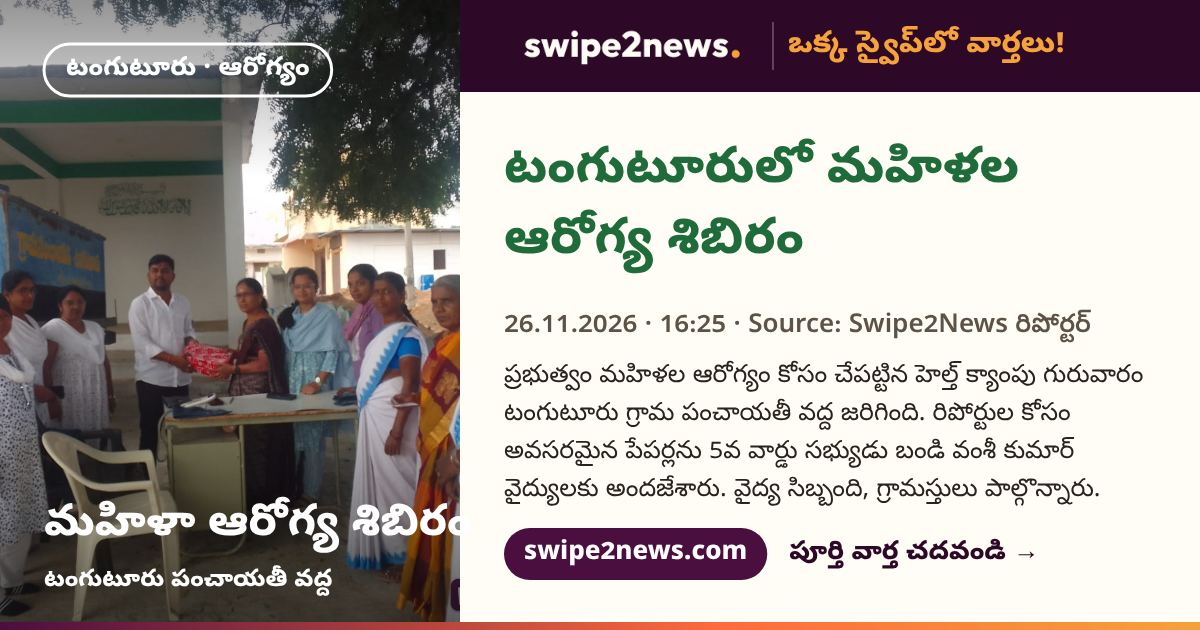
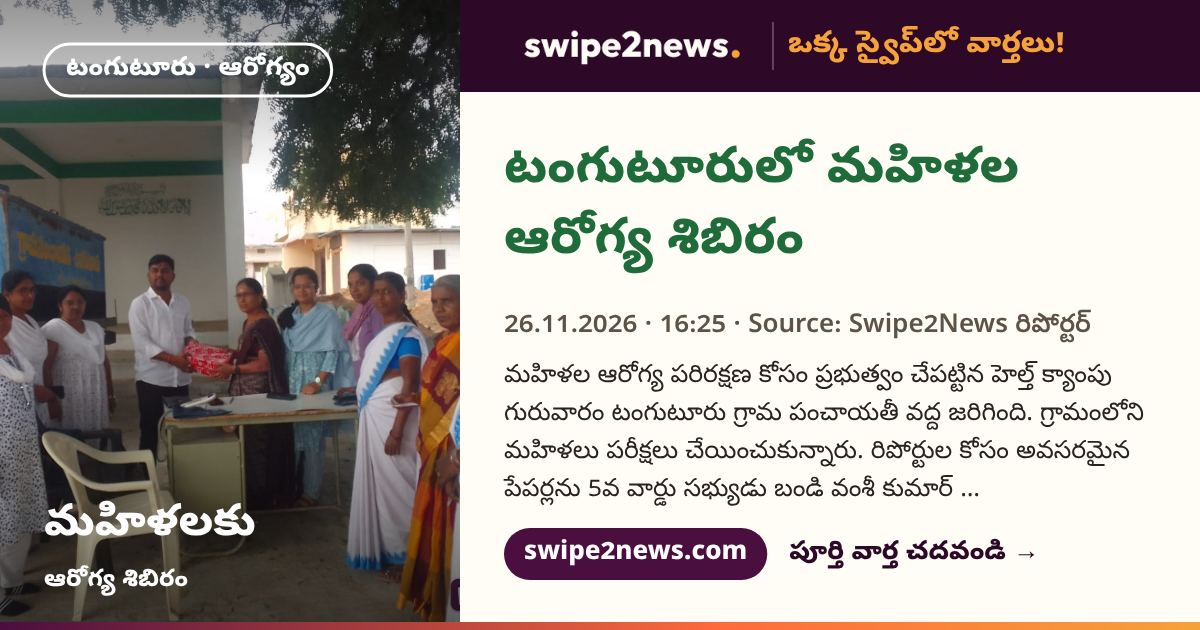
Tanguturu story: summary to card length, shorter picture line
Claude-Session: https://claude.ai/code/session_018iQhkHU53oJfvWAwm1ZPZm

Changed region(s): [[0.4008, 0.573, 0.9558, 0.8143], [0.1233, 0.7841, 0.4008, 0.8746], [0.0308, 0.9048, 0.2775, 0.9651]]

diff --git a/te/index.html b/te/index.html
@@ -39,7 +39,7 @@ footer{background:#fff;border-top:1px solid #E6E8EC;padding:22px 0 30px;font-siz
 <nav class="cat" aria-label="Sections"><a href="#telangana">తెలంగాణ</a><a href="#ap">ఆంధ్రప్రదేశ్</a><a href="#india">దేశం</a><a href="#world">ప్రపంచం</a><a href="#business">బిజినెస్ &amp; టెక్</a><a href="#fact">ఫ్యాక్ట్ చెక్</a><a href="#local">జిల్లా వార్తలు</a><a href="#jobs">ఉద్యోగాలు · చివరి తేదీలు</a></nav></div></header>
 <main class="wrap">
 <h1>ముఖ్య వార్తలు</h1>
-<div class="lead"><div><article class="card big"><div class="m"><span class="l fact">వాస్తవం</span><span>టంగుటూరు · ఆరోగ్యం</span><time datetime="2026-11-26T16:25+05:30">26.11.2026 16:25</time></div><h3><a href="/s/aa676i">టంగుటూరులో మహిళల ఆరోగ్య శిబిరం</a></h3><p>ప్రభుత్వం మహిళల ఆరోగ్యం కోసం చేపట్టిన హెల్త్ క్యాంపు గురువారం టంగుటూరు గ్రామ పంచాయతీ వద్ద జరిగింది. రిపోర్టుల కోసం అవసరమైన పేపర్లను 5వ వార్డు సభ్యుడు బండి వంశీ కుమార్ వైద్యులకు అందజేశారు. వైద్య సిబ్బంది, గ్రామస్తులు పాల్గొన్నారు.</p><div class="w"><b>ఇది ఎందుకు ముఖ్యం:</b> గ్రామ మహిళలకు ప్రభుత్వ ఆరోగ్య పరీక్షలు ఊర్లోనే అందుతాయి.</div><div class="m">మూలం: <b>Swipe2News రిపోర్టర్</b></div></article></div><div class="card"><h3>తాజా అప్డేట్లు</h3><div class="list">
+<div class="lead"><div><article class="card big"><div class="m"><span class="l fact">వాస్తవం</span><span>టంగుటూరు · ఆరోగ్యం</span><time datetime="2026-11-26T16:25+05:30">26.11.2026 16:25</time></div><h3><a href="/s/aa676i">టంగుటూరులో మహిళల ఆరోగ్య శిబిరం</a></h3><p>మహిళల ఆరోగ్య పరిరక్షణ కోసం ప్రభుత్వం చేపట్టిన హెల్త్ క్యాంపు గురువారం టంగుటూరు గ్రామ పంచాయతీ వద్ద జరిగింది. గ్రామంలోని మహిళలు పరీక్షలు చేయించుకున్నారు. రిపోర్టుల కోసం అవసరమైన పేపర్లను 5వ వార్డు సభ్యుడు బండి వంశీ కుమార్ వైద్యులకు అందజేశారు. మహిళల ఆరోగ్యంపై అవగాహన పెంచడమే లక్ష్యమని ఆయన చెప్పారు. వైద్య సిబ్బంది, గ్రామస్తులు పాల్గొన్నారు.</p><div class="w"><b>ఇది ఎందుకు ముఖ్యం:</b> గ్రామ మహిళలకు ప్రభుత్వ ఆరోగ్య పరీక్షలు ఊర్లోనే అందుతాయి.</div><div class="m">మూలం: <b>Swipe2News రిపోర్టర్</b></div></article></div><div class="card"><h3>తాజా అప్డేట్లు</h3><div class="list">
 <a href="/s/xqmq68"><span>16:05</span>అంబర్ నగర్లో ఇద్దరు పిల్లలు దొరికారు</a><a href="/s/w5hsdg"><span>16:05</span>ఓట్లు తీసేస్తున్నారని సీఎం రేవంత్ ఆరోపణ</a><a href="/s/92zjrx"><span>16:05</span>తెలంగాణ గ్లోబల్ సమ్మిట్పై భట్టి సమీక్ష</a><a href="/s/1pomyg9"><span>16:05</span>హైదరాబాద్లో అమ్ముడుపోని ఇళ్లు పెరిగాయి</a><a href="/s/ybuqpi"><span>16:05</span>మంథని శిలాఫలకంపై ఎంపీ వంశీకృష్ణ లేఖ</a><a href="/s/1u5bcvk"><span>15:35</span>నిరసనల నియమాలపై సుప్రీంకోర్టు నోటీసు</a><a href="/s/14d98t"><span>15:35</span>అజ్మేర్లో తెలంగాణ అతిథి గృహం ఇంకా లేదు</a><a href="/s/yjzzxc"><span>15:35</span>సైబర్ వేధింపుల కేసుల్లో ఇద్దరు అరెస్ట్</a>
 </div></div></div>
 <section id="telangana"><h2>తెలంగాణ</h2><div class="grid"><article class="card"><div class="m"><span class="l fact">వాస్తవం</span><span>తెలంగాణ · పంచాయతీలు</span><time datetime="2026-11-26T15:03+05:30">26.11.2026 15:35</time></div><h3><a href="/s/1bl5w9a">పంచాయతీల సొంత ఆదాయానికి కొత్త ఖాతాలు</a></h3><p>గ్రామ పంచాయతీలు సొంత ఆదాయం కోసం జీరో బ్యాలెన్స్ బ్యాంకు ఖాతాలు తెరిచేలా చూడాలని పంచాయతీరాజ్ శాఖ జిల్లా పంచాయతీ అధికారులను ఆదేశించింది. ఇప్పటివరకు ఈ డబ్బు ప్రభుత్వ ఖజానా ద్వారా వెళ్లేది. అక్టోబర్ 9 నుంచి చట్ట సవరణ అమల్లోకి వచ్చింది. ఆర్బీఐ నివేదిక ప్రకారం పంచాయతీల నిధులు బాగా తగ్గాయని తెలంగాణ టుడే కథనం తెలిపింది.</p><div class="w"><b>ఇది ఎందుకు ముఖ్యం:</b> గ్రామాల్లో రోడ్లు, తాగునీరు, పారిశుద్ధ్యం పనులు పంచాయతీ నిధులపైనే ఆధారపడతాయి.</div><div class="m">మూలం: <b>Telangana Today</b></div></article><article class="card"><div class="m"><span class="l misleading">తప్పుదోవ</span><span>తెలంగాణ · నిజ నిర్ధారణ</span><time datetime="2026-11-26T15:00+05:30">26.11.2026 15:35</time></div><h3><a href="/s/15pbmyx">ఒక్కరే కారులో వెళ్తే జరిమానా అనేది తప్పు</a></h3><p>కారులో ఒక్కరే ప్రయాణిస్తే ‘రద్దీ నిబంధన’ కింద జరిమానా వేస్తారన్న సోషల్ మీడియా ప్రచారం తప్పు అని తెలంగాణ పోలీసులు చెప్పారు. అలాంటి ప్రణాళిక ఏదీ లేదని హైదరాబాద్ సీపీ మహేశ్ భగవత్, సైబరాబాద్ సీపీ రమేశ్ రెడ్డి న్యూస్మీటర్కు తెలిపారు. తప్పుడు ప్రచారం చేసే ఖాతాలపై చర్యలు తీసుకుంటామని ట్రాఫిక్ అధికారులు తెలిపారు.</p><div class="w"><b>ఇది ఎందుకు ముఖ్యం:</b> హైదరాబాద్, సైబరాబాద్లో కారులో ఒంటరిగా వెళ్లే వారికి ఎలాంటి కొత్త జరిమానా లేదు.</div><div class="m">మూలం: <b>NewsMeter</b></div></article><article class="card"><div class="m"><span class="l fact">వాస్తవం</span><span>తెలంగాణ · రాజ్యాంగ దినోత్సవం</span><time datetime="2026-11-26T14:41+05:30">26.11.2026 15:05</time></div><h3><a href="/s/16ik3ed">ఆర్టికల్ 3 వల్లే తెలంగాణ: కేటీఆర్</a></h3><p>రాజ్యాంగ దినోత్సవం సందర్భంగా బీఆర్ఎస్ వర్కింగ్ ప్రెసిడెంట్ కేటీఆర్ గురువారం ఒక ప్రకటనలో డాక్టర్ బీఆర్ అంబేడ్కర్కు, రాజ్యాంగ సభ సభ్యులకు నివాళి అర్పించారు. కొత్త రాష్ట్రాల ఏర్పాటుకు వీలు కల్పించే ఆర్టికల్ 3 వల్లే తెలంగాణ ఏర్పడిందని అన్నారు. న్యాయం, స్వేచ్ఛ, సమానత్వం, సోదరభావాలకు రాజ్యాంగం పునాది అని పేర్కొన్నారు.</p><div class="w"><b>ఇది ఎందుకు ముఖ్యం:</b> తెలంగాణ ఏర్పాటుకు రాజ్యాంగం ఇచ్చిన ఆధారాన్ని ఈ ప్రకటన గుర్తు చేస్తోంది.</div><div class="m">మూలం: <b>Telangana Today</b></div></article><article class="card"><div class="m"><span class="l fact">వాస్తవం</span><span>హైదరాబాద్ · విద్య</span><time datetime="2026-11-26T14:32+05:30">26.11.2026 15:05</time></div><h3><a href="/s/hp9bxj">నైపర్ హైదరాబాద్ స్నాతకోత్సవం శుక్రవారం</a></h3><p>హైదరాబాద్ బాలానగర్లోని నైపర్ (జాతీయ ఔషధ విద్య, పరిశోధన సంస్థ) 14వ స్నాతకోత్సవం శుక్రవారం జరగనుంది. 2024–26 బ్యాచ్కు చెందిన 225 మంది విద్యార్థులు డిగ్రీలు అందుకుంటారు. వీరిలో 15 మంది పీహెచ్డీ, 210 మంది మాస్టర్స్ విద్యార్థులు. చదువులో ప్రతిభ చూపిన 12 మందికి బంగారు పతకాలు ఇస్తారు.</p><div class="w"><b>ఇది ఎందుకు ముఖ్యం:</b> ఔషధ రంగంలో చదువుతున్న తెలుగు విద్యార్థులకు ఇది ముఖ్యమైన వేడుక.</div><div class="m">మూలం: <b>Telangana Today</b></div></article><article class="card"><div class="m"><span class="l fact">వాస్తవం</span><span>తెలంగాణ · ఎన్నికల జాబితా</span><time datetime="2026-11-26T14:24+05:30">26.11.2026 15:05</time></div><h3><a href="/s/ijeetx">ఓటర్ల జాబితాలో 32,100 కేసులు పెండింగ్</a></h3><p>తెలంగాణ ఓటర్ల జాబితా ప్రత్యేక సవరణలో 2.63 కోట్లకు పైగా పేర్లు తుది జాబితాకు ఖరారయ్యాయి. 58,772 మంది అనర్హులుగా తేలారు. ఇంకా 32,100 కేసులు పెండింగ్లో ఉన్నాయి, వాటిలో 22,598 హైదరాబాద్వే. నోటీసులకు సమాధానం ఇచ్చిన ఓటర్లు తమ కేసు ఎక్కడుందో ఆన్లైన్లో చూసుకునే వీలు లేదని సియాసత్ కథనం తెలిపింది.</p><div class="w"><b>ఇది ఎందుకు ముఖ్యం:</b> నోటీసు అందుకున్న ఓటర్లు తుది జాబితాలో తమ పేరు ఉందో లేదో చూసుకోవాలి.</div><div class="m">మూలం: <b>The Siasat Daily</b></div></article><article class="card"><div class="m"><span class="l fact">వాస్తవం</span><span>తెలంగాణ · వనపర్తి</span><time datetime="2026-11-26T14:20+05:30">26.11.2026 15:05</time></div><h3><a href="/s/ximmx3">వనపర్తిలో పిలవని అతిథులకు హెచ్చరిక</a></h3><p>వనపర్తి జిల్లాలో ఒక ఫంక్షన్ హాల్ నిర్వాహకులు పిలవకుండా వేడుకలకు వచ్చి భోజనం చేసేవారిపై హెచ్చరిక బోర్డు పెట్టారు. ఆహ్వానం లేకుండా వస్తే చట్టప్రకారం చర్యలు తీసుకుంటామని అందులో రాశారు. బీఎన్ఎస్ సెక్షన్ 329 కింద మూడు నెలల వరకు జైలు, ₹5,000 వరకు జరిమానా పడే అవకాశం ఉందని పేర్కొన్నారు.</p><div class="w"><b>ఇది ఎందుకు ముఖ్యం:</b> పెళ్లిళ్లు, విందులకు ఆహ్వానం లేకుండా వెళ్లేవారు ఇది గమనించాలి.</div><div class="m">మూలం: <b>NTV Telugu</b></div></article></div></section><section id="ap"><h2>ఆంధ్రప్రదేశ్</h2><div class="grid"><article class="card"><div class="m"><span class="l fact">వాస్తవం</span><span>ఏపీ · రోడ్డు ప్రమాదం</span><time datetime="2026-11-26T14:56+05:30">26.11.2026 15:35</time></div><h3><a href="/s/q86p0e">అనంతపురంలో లారీ ఢీకొని నలుగురు మృతి</a></h3><p>అనంతపురం జిల్లా యాడికి మండలం రాయలచెరువు దగ్గర గురువారం ఉదయం తుఫాన్ వాహనం ఎదురుగా వచ్చిన లారీని ఢీకొంది. నలుగురు మృతి చెందగా, ఎనిమిది మంది తీవ్రంగా గాయపడ్డారని పోలీసులు తెలిపారు. ప్రయాణికులు హైదరాబాద్లో పెళ్లికి వెళ్లి తాడిపత్రికి తిరిగి వస్తున్నారు. గాయపడిన వారిని ఆసుపత్రికి తరలించిన పోలీసులు కేసు నమోదు చేశారు.</p><div class="w"><b>ఇది ఎందుకు ముఖ్యం:</b> హైదరాబాద్–తాడిపత్రి మార్గంలో ప్రయాణించే వారికి రోడ్డు భద్రతపై ఇది హెచ్చరిక.</div><div class="m">మూలం: <b>Telangana Today</b></div></article><article class="card"><div class="m"><span class="l claim">వాదన</span><span>ఏపీ · పంచాయతీ ఎన్నికలు</span><time datetime="2026-11-26T14:39+05:30">26.11.2026 15:05</time></div><h3><a href="/s/nj1x8g">కేసరపల్లి పోలింగ్ కేంద్రం వద్ద ఉద్రిక్తత</a></h3><p>కృష్ణా జిల్లా గన్నవరం మండలం కేసరపల్లి పోలింగ్ కేంద్రం బయట గురువారం కాసేపు ఉద్రిక్తత నెలకొంది. పంచాయతీ ఎన్నికల తొలి విడత పోలింగ్ సమయంలో టీడీపీ మద్దతుదారులకు, పార్టీ రెబల్ వర్గానికి మధ్య వాగ్వాదం జరిగిందని ఏఎన్ఐ తెలిపింది. దీంతో ఓటర్లు, కార్యకర్తల్లో కొంత గందరగోళం ఏర్పడింది. మిగతా చోట్ల పోలింగ్ సజావుగా సాగిందని అధికారులు చెప్పారు.</p><div class="w"><b>ఇది ఎందుకు ముఖ్యం:</b> కృష్ణా జిల్లా గ్రామాల్లో ఓటర్లకు పోలింగ్ కేంద్రాల వద్ద భద్రత ముఖ్యం.</div><div class="m">మూలం: <b>Deccan Chronicle (ANI)</b></div></article><article class="card"><div class="m"><span class="l fact">వాస్తవం</span><span>ఏపీ · పింఛన్లు</span><time datetime="2026-11-26T14:34+05:30">26.11.2026 15:05</time></div><h3><a href="/s/1v78skq">ఏపీలో పింఛన్లు నవంబర్ 30, డిసెంబర్ 1న</a></h3><p>ఆంధ్రప్రదేశ్లో ఎన్టీఆర్ భరోసా పింఛన్ల పంపిణీ తేదీల్లో మార్పు వచ్చింది. సచివాలయ సిబ్బంది ఎన్నికల విధుల్లో లేని చోట నవంబర్ 30న పింఛన్లు ఇస్తారు. సిబ్బంది ఎన్నికల పనిలో ఉన్న ప్రాంతాల్లో డిసెంబర్ 1న ఇస్తారు. పంచాయతీ ఎన్నికలు, మున్సిపల్ ఓట్ల లెక్కింపు కారణంగా ప్రభుత్వం ఈ ఉత్తర్వులు ఇచ్చిందని వన్ఇండియా తెలుగు కథనం తెలిపింది.</p><div class="w"><b>ఇది ఎందుకు ముఖ్యం:</b> ఏపీలో పింఛన్ తీసుకునేవారు తమ ప్రాంతంలో ఏ రోజు ఇస్తారో తెలుసుకోవాలి.</div><div class="m">మూలం: <b>Oneindia Telugu</b></div></article><article class="card"><div class="m"><span class="l claim">వాదన</span><span>ఏపీ · పంచాయతీ ఎన్నికలు</span><time datetime="2026-11-26T14:29+05:30">26.11.2026 14:35</time></div><h3><a href="/s/152ytkk">అహోబిలంలో ఎమ్మెల్యే వాహనంపై రాళ్ల దాడి</a></h3><p>నంద్యాల జిల్లా అహోబిలంలో పంచాయతీ పోలింగ్ చూడటానికి వెళ్తున్న టీడీపీ ఎమ్మెల్యే భూమా అఖిలప్రియ వాహనంపై వైఎస్సార్సీపీ మద్దతుదారులు దాడి చేశారని ఆరోపణ. ఆ తర్వాత అక్కడ రెండు వర్గాలు రాళ్లు రువ్వుకున్నాయి. ఎమ్మెల్యే క్షేమంగా ఉన్నారని, డ్రైవర్కు చిన్న గాయాలయ్యాయని సమాచారం. అదనపు బలగాలతో వచ్చిన పోలీసులు రెండు వర్గాలను చెదరగొట్టి భద్రత పెంచారు.</p><div class="w"><b>ఇది ఎందుకు ముఖ్యం:</b> నంద్యాల జిల్లాలో ఓటు వేసే గ్రామస్తుల భద్రతపై ఈ ఘటన ఆందోళన కలిగిస్తోంది.</div><div class="m">మూలం: <b>Deccan Chronicle</b></div></article><article class="card"><div class="m"><span class="l fact">వాస్తవం</span><span>ఏపీ · శ్రీశైలం</span><time datetime="2026-11-26T13:18+05:30">26.11.2026 14:05</time></div><h3><a href="/s/1yd7vmc">శ్రీశైలంలో 420 మంది చెంచులకు ఉచిత దర్శనం</a></h3><p>శ్రీశైలం దేవస్థానం ఈ నెల 420 మంది చెంచు గిరిజనులకు స్వామివారి స్పర్శ దర్శనం, అమ్మవారి దర్శనం ఉచితంగా కల్పించింది. ప్రతి నెల చివరి బుధవారం ఈ కార్యక్రమం జరుగుతుంది. స్థానిక చెంచు గూడేలతో పాటు ఇతర గూడేల నుంచి భక్తులు వచ్చారు. దర్శనం తర్వాత అన్నపూర్ణ భవనంలో భోజనం పెట్టారు. ఐటీడీఏ అధికారి సాయంతో భక్తులను ఎంపిక చేశారు.</p><div class="w"><b>ఇది ఎందుకు ముఖ్యం:</b> నల్లమల చెంచు గిరిజనులకు ప్రతి నెలా ఉచితంగా దర్శనం చేసుకునే అవకాశం ఉంటుంది.</div><div class="m">మూలం: <b>Vaartha</b></div></article><article class="card"><div class="m"><span class="l fact">వాస్తవం</span><span>ఏపీ · పంచాయతీ ఎన్నికలు</span><time datetime="2026-11-26T12:36+05:30">26.11.2026 13:05</time></div><h3><a href="/s/1qo3c8p">ఏపీ పంచాయతీల్లో 11 గంటలకు 53.86% పోలింగ్</a></h3><p>ఆంధ్రప్రదేశ్ తొలి విడత గ్రామ పంచాయతీ ఎన్నికల్లో ఉదయం 11 గంటల వరకు 53.86 శాతం పోలింగ్ నమోదైందని అధికారులు తెలిపారు. ఉదయం 9 గంటలకు ఇది 16.25 శాతమే. అల్లూరి సీతారామరాజు జిల్లాలో అత్యధికంగా 75.02 శాతం, వైఎస్సార్ కడప జిల్లాలో అత్యల్పంగా 20.22 శాతం మంది ఓటు వేశారు.</p><div class="w"><b>ఇది ఎందుకు ముఖ్యం:</b> ఏపీ గ్రామాల్లో సర్పంచ్, వార్డు సభ్యులను ఎన్నుకుంటున్న ఓటర్లకు ఇది తాజా పోలింగ్ సమాచారం.</div><div class="m">మూలం: <b>Andhra Jyothy</b></div></article></div></section><section id="india"><h2>దేశం</h2><div class="grid"><article class="card"><div class="m"><span class="l fact">వాస్తవం</span><span>భారత్ · ఆహారం</span><time datetime="2026-11-26T13:58+05:30">26.11.2026 14:05</time></div><h3><a href="/s/1y9et4d">ఆహార ప్యాకెట్లపై చక్కెర, కొవ్వు హెచ్చరిక</a></h3><p>ప్యాకెట్ ఆహారం ముందు భాగంలో వేసే పోషక లేబుళ్లలో &#x27;మొత్తం చక్కెర&#x27;, &#x27;సాచురేటెడ్ కొవ్వు&#x27;, &#x27;ఉప్పు&#x27; వివరాలు చూపాలని సుప్రీంకోర్టు గురువారం ఆహార భద్రత సంస్థను ఆదేశించింది. &#x27;కలిపిన చక్కెర&#x27;, &#x27;కలిపిన కొవ్వు&#x27; మాత్రమే కాకుండా మొత్తం పరిమాణం చెప్పాలని తెలిపింది. ఒక్కో అంశానికి వేర్వేరుగా ఆరు కోణాల గుర్తు, బొమ్మ ఉండాలని పేర్కొంది.</p><div class="w"><b>ఇది ఎందుకు ముఖ్యం:</b> ప్యాకెట్ ఆహారం కొనేవారు చక్కెర, కొవ్వు, ఉప్పు ఎక్కువ ఉందో లేదో సులభంగా తెలుసుకోగలరు.</div><div class="m">మూలం: <b>Deccan Chronicle</b></div></article><article class="card"><div class="m"><span class="l fact">వాస్తవం</span><span>భారత్ · మహారాష్ట్ర</span><time datetime="2026-11-26T13:45+05:30">26.11.2026 15:05</time></div><h3><a href="/s/vxg3f4">శరద్ పవార్ ముంబై ఆసుపత్రిలో చేరారు</a></h3><p>ఎన్సీపీ (ఎస్పీ) అధినేత శరద్ పవార్ (85) గురువారం దక్షిణ ముంబైలోని బ్రీచ్ క్యాండీ ఆసుపత్రిలో చేరారు. ఒంట్లో నీటి శాతం తగ్గినట్లు కనిపిస్తోందని ఆయన కుమార్తె, ఎంపీ సుప్రియా సూలే సామాజిక మాధ్యమంలో తెలిపారు. ఆయన ప్రయాణాలు తగ్గించుకోవాలని అన్నారు. ఇటీవలే ఆయన ఛాతీ, శ్వాస సంబంధిత ఇన్ఫెక్షన్తో ఆసుపత్రిలో చికిత్స పొందారు.</p><div class="w"><b>ఇది ఎందుకు ముఖ్యం:</b> దేశ రాజకీయాల్లో సీనియర్ నేత ఆరోగ్యంపై అందరి దృష్టి ఉంది.</div><div class="m">మూలం: <b>ThePrint (PTI)</b></div></article><article class="card"><div class="m"><span class="l fact">వాస్తవం</span><span>భారత్ · టెక్నాలజీ</span><time datetime="2026-11-26T13:07+05:30">26.11.2026 15:05</time></div><h3><a href="/s/18zn1zo">దేశీయ ఏఐ మోడళ్లు ‘చారియట్-1’ విడుదల</a></h3><p>ఇండియా ఏఐ మిషన్ కింద దేశంలోనే తయారైన ‘చారియట్-1’ ఏఐ మోడళ్లను కేంద్ర ఐటీ శాఖ కార్యదర్శి ఎస్. కృష్ణన్ న్యూఢిల్లీలో విడుదల చేశారు. వీటిని చారియట్ ఆర్టిఫిషియల్ ఇంటెలిజెన్స్ సంస్థ తయారు చేసింది. ఇందులో భాషా మోడల్, మాటను పలికించే మోడల్ ఉన్నాయి. మాట మోడల్ తెలుగుతో సహా 10 భారతీయ భాషలు, ఇంగ్లిష్లో పనిచేస్తుంది.</p><div class="w"><b>ఇది ఎందుకు ముఖ్యం:</b> తెలుగు సహా భారతీయ భాషల్లో ఏఐ సేవలు మెరుగుపడేందుకు ఇది తోడ్పడుతుంది.</div><div class="m">మూలం: <b>Telangana Today (IANS)</b></div></article><article class="card"><div class="m"><span class="l fact">వాస్తవం</span><span>భారత్ · వ్యాపారం</span><time datetime="2026-11-26T12:58+05:30">26.11.2026 16:05</time></div><h3><a href="/s/16nz1ko">జెట్ ఉద్యోగులకు ₹480 కోట్ల బకాయిలు</a></h3><p>మూతపడిన జెట్ ఎయిర్వేస్ మాజీ ఉద్యోగులకు పీఎఫ్, గ్రాట్యుటీ బకాయిలు సుమారు ₹480 కోట్లు వడ్డీతో కలిపి రెండు వారాల్లో చెల్లించాలని జాతీయ కంపెనీ లా అప్పీలేట్ ట్రిబ్యునల్ ఆదేశించింది. గ్రాట్యుటీ నేరుగా ఉద్యోగుల బ్యాంకు ఖాతాల్లోకి, పీఎఫ్ మొత్తం పీఎఫ్ కార్యాలయం ద్వారా వస్తుంది. జెట్ ఎయిర్వేస్ 2019 ఏప్రిల్లో విమానాలు ఆపేసింది. ఉద్యోగులు ఏడేళ్లుగా న్యాయ పోరాటం చేస్తున్నారు.</p><div class="w"><b>ఇది ఎందుకు ముఖ్యం:</b> మూతపడిన కంపెనీల ఉద్యోగుల పీఎఫ్, గ్రాట్యుటీ హక్కులకు ఇది ముఖ్యమైన ఆదేశం.</div><div class="m">మూలం: <b>India.com</b></div></article><article class="card"><div class="m"><span class="l fact">వాస్తవం</span><span>భారత్ · ఓటీటీ</span><time datetime="2026-11-26T12:43+05:30">26.11.2026 13:35</time></div><h3><a href="/s/1cu48vf">పాక్ సిరీస్ వద్దని నెట్ఫ్లిక్స్కు సూచన</a></h3><p>పాకిస్థాన్లో తయారైన కంటెంట్ను భారత్లో ప్రసారం చేయవద్దని కేంద్ర సమాచార, ప్రసార శాఖ నెట్ఫ్లిక్స్ను కోరిందని అధికార వర్గాలు తెలిపాయి. &#x27;జో బచాయే హై సంగ్ సమేట్ లో&#x27; అనే పాక్ వెబ్ సిరీస్ ఇక్కడ విడుదలవుతుందన్న ఫిర్యాదులతో, 2025 మే 8 నాటి సలహాను పాటించాలని గుర్తుచేసింది. సిరీస్ ట్రైలర్ మంగళవారం విడుదలైంది.</p><div class="w"><b>ఇది ఎందుకు ముఖ్యం:</b> భారత్లో ఓటీటీ వీక్షకులు ఏ కంటెంట్ చూడగలరో ఇది ప్రభావితం చేస్తుంది.</div><div class="m">మూలం: <b>Telangana Today (PTI)</b></div></article><article class="card"><div class="m"><span class="l fact">వాస్తవం</span><span>భారత్ · సుప్రీంకోర్టు</span><time datetime="2026-11-26T11:47+05:30">26.11.2026 12:05</time></div><h3><a href="/s/oo7tv0">ఆనంద్ మోహన్ విడుదల రద్దు: సుప్రీంకోర్టు</a></h3><p>తెలంగాణకు చెందిన ఐఏఎస్ అధికారి జి. కృష్ణయ్య హత్య కేసులో బీహార్ మాజీ ఎంపీ ఆనంద్ మోహన్కు ఇచ్చిన శిక్ష తగ్గింపును సుప్రీంకోర్టు గురువారం రద్దు చేసింది. ఆయన నెల రోజుల్లో లొంగిపోవాలని ఆదేశించింది. 1994లో గోపాల్గంజ్ కలెక్టర్గా ఉన్న కృష్ణయ్యను ఒక గుంపు కొట్టి చంపింది. ఈ కేసులో ఆనంద్ మోహన్కు జీవిత ఖైదు పడింది.</p><div class="w"><b>ఇది ఎందుకు ముఖ్యం:</b> తెలంగాణ అధికారి హత్య కేసులో ఆయన కుటుంబం చేసిన న్యాయ పోరాటంలో ఇది ముఖ్యమైన తీర్పు.</div><div class="m">మూలం: <b>ThePrint (PTI)</b></div></article></div></section><section id="world"><h2>ప్రపంచం</h2><div class="grid"><article class="card"><div class="m"><span class="l fact">వాస్తవం</span><span>భారత్ · విదేశాంగం</span><time datetime="2026-11-26T08:11+05:30">26.11.2026 08:35</time></div><h3><a href="/s/164f4sp">ఢిల్లీలో రేపు హిందూ మహాసముద్ర దేశాల భేటీ</a></h3><p>హిందూ మహాసముద్ర తీర దేశాల సంఘం 25వ మంత్రుల సమావేశం నవంబర్ 27 శుక్రవారం న్యూఢిల్లీలో జరగనుంది. ఈ సమావేశానికి భారత్ ఆతిథ్యం ఇస్తోంది. 23 సభ్య దేశాలు, 12 భాగస్వామ్య దేశాల మంత్రులు, అధికారులు పాల్గొంటారు. ప్రాంతీయ సహకారాన్ని సమీక్షించి, కలిసి పనిచేసే కొత్త రంగాలను గుర్తిస్తారని విదేశాంగ శాఖ తెలిపింది.</p><div class="w"><b>ఇది ఎందుకు ముఖ్యం:</b> తీర దేశాల మధ్య సముద్ర వాణిజ్యం, భద్రతపై సహకారం ఈ భేటీలో చర్చకు వస్తుంది.</div><div class="m">మూలం: <b>The Siasat Daily (PTI)</b></div></article><article class="card"><div class="m"><span class="l fact">వాస్తవం</span><span>ప్రపంచం · అమెరికా</span><time datetime="2026-11-26T07:42+05:30">26.11.2026 09:05</time></div><h3><a href="/s/eqbmip">ట్రంప్ పౌరసత్వ ఆంక్షలు ఆపిన కోర్టు</a></h3><p>అమెరికాలో పుట్టిన పిల్లల పౌరసత్వంపై అధ్యక్షుడు డొనాల్డ్ ట్రంప్ ఆగస్టులో తెచ్చిన ఆంక్షలను వాషింగ్టన్లోని ఫెడరల్ కోర్టు బుధవారం ఆపేసింది. తల్లిదండ్రులిద్దరూ అమెరికా పౌరులు కాని కొన్ని వర్గాల పిల్లలకు పౌరసత్వ గుర్తింపు ఇవ్వొద్దని ఆ ఉత్తర్వు చెప్పింది. పుట్టుకతో వచ్చే పౌరసత్వానికి అధ్యక్షుడు కొత్త మినహాయింపులు పెట్టలేరని కోర్టు పేర్కొంది. పౌర హక్కుల సంస్థ ఏసీఎల్యూ ఈ కేసు వేసింది.</p><div class="w"><b>ఇది ఎందుకు ముఖ్యం:</b> అమెరికాలో పుట్టే పిల్లల పౌరసత్వ నిబంధనలు అక్కడున్న భారతీయ కుటుంబాలు గమనించాల్సిన విషయం.</div><div class="m">మూలం: <b>Siasat (IANS)</b></div></article><article class="card"><div class="m"><span class="l fact">వాస్తవం</span><span>ప్రపంచం · ఉత్తర కొరియా</span><time datetime="2026-11-26T04:11+05:30">26.11.2026 06:35</time></div><h3><a href="/s/1a8kdp5">అణు కేంద్రాల్లో ఉత్తర కొరియా నేత కిమ్</a></h3><p>ఉత్తర కొరియా నేత కిమ్ జోంగ్ ఉన్ బుధవారం అణు పదార్థాల ఉత్పత్తి కేంద్రాలు, ఒక పరిశోధన సంస్థను సందర్శించారని ఆ దేశ అధికార వార్తా సంస్థ కేసీఎన్ఏ తెలిపింది. చిన్న స్థాయి అణ్వాయుధాలను వివిధ రంగాల్లో మోహరించాలని ఆయన పిలుపునిచ్చారు. తమ అణు హోదా మారదని అన్నారు.</p><div class="w"><b>ఇది ఎందుకు ముఖ్యం:</b> దక్షిణ కొరియా, జపాన్ సహా ఆసియా దేశాల భద్రతకు సంబంధించిన వార్త.</div><div class="m">మూలం: <b>The Korea Times</b></div></article><article class="card"><div class="m"><span class="l fact">వాస్తవం</span><span>ప్రపంచం · టెక్నాలజీ</span><time datetime="2026-11-26T02:01+05:30">26.11.2026 07:05</time></div><h3><a href="/s/73gnvg">స్పేస్ఎక్స్ 10 లక్షల ఉపగ్రహాలకు అనుమతి</a></h3><p>అంతరిక్షంలో డేటా సెంటర్ల కోసం 10 లక్షల వరకు ఉపగ్రహాలు పంపేందుకు స్పేస్ఎక్స్కు అమెరికా కమ్యూనికేషన్ల కమిషన్ నవంబర్ 25న షరతులతో అనుమతి ఇచ్చింది. &#x27;స్టార్మైండ్&#x27; అనే ఈ నెట్వర్క్ ఏఐ లెక్కలను కక్ష్యలోనే చేస్తుంది. మొదటి ఉపగ్రహం 2033 నవంబర్లోపు పని మొదలుపెట్టాలి. మొత్తం నెట్వర్క్ 2040 నవంబర్లోపు పూర్తి కావాలి.</p><div class="w"><b>ఇది ఎందుకు ముఖ్యం:</b> ఏఐ, అంతరిక్ష రంగాలను గమనించే విద్యార్థులు, టెక్ ఉద్యోగులకు ఇది ముఖ్యమైన పరిణామం.</div><div class="m">మూలం: <b>AeroTime</b></div></article><article class="card"><div class="m"><span class="l fact">వాస్తవం</span><span>ప్రపంచం · ఈజిప్ట్</span><time datetime="2026-11-26T00:25+05:30">26.11.2026 05:05</time></div><h3><a href="/s/1ygliql">కైరో రింగ్ రోడ్డుపై మంటలు, 30 మంది మృతి</a></h3><p>ఈజిప్ట్ రాజధాని కైరో వద్ద రింగ్ రోడ్డుపై బుధవారం పెట్రోలియం ఉత్పత్తుల వాహనం బోల్తా పడి మంటలు చెలరేగాయి. కనీసం 30 మంది మృతి చెందారని ఆ దేశ ఆరోగ్య శాఖ తెలిపింది. 27 వాహనాలు కాలిపోయాయని న్యాయ అధికారులు చెప్పారు. 39 అంబులెన్సులను పంపి, గాయపడినవారిని ఆసుపత్రులకు తరలించారు. ప్రమాదంపై దర్యాప్తు మొదలైంది.</p><div class="w"><b>ఇది ఎందుకు ముఖ్యం:</b> ఇంధన వాహనాల ప్రమాదాలు రద్దీ రోడ్లపై ఎంత పెద్ద నష్టం చేస్తాయో ఈ ఘటన చూపిస్తోంది.</div><div class="m">మూలం: <b>Al Jazeera</b></div></article><article class="card"><div class="m"><span class="l claim">వాదన</span><span>ఏపీ · ప్రవాసులు</span><time datetime="2026-11-25T22:29+05:30">25.11.2026 23:05</time></div><h3><a href="/s/1xrmox6">యూఏఈ బస్సు ప్రమాదంలో ఏపీ యువకుడు మృతి</a></h3><p>యూఏఈలోని రస్ అల్ ఖైమాలో మంగళవారం జరిగిన బస్సు ప్రమాదంలో 13 మంది మృతి చెందారు. వారిలో ఆరుగురు భారతీయులు. ఆంధ్రప్రదేశ్కు చెందిన 31 ఏళ్ల యువకుడు కూడా ఉన్నారు. ఒమన్ నుంచి తిరిగి వస్తుండగా ఈ ప్రమాదం జరిగింది. మరో నలుగురు గాయపడ్డారు. భారత కాన్సుల్ జనరల్ బుధవారం బాధిత కుటుంబాలను కలిశారు.</p><div class="w"><b>ఇది ఎందుకు ముఖ్యం:</b> గల్ఫ్లో పనిచేసే తెలుగు వారి కుటుంబాలకు ఇది ఆందోళన కలిగించే వార్త.</div><div class="m">మూలం: <b>Telangana Today</b></div></article></div></section><section id="business"><h2>బిజినెస్ &amp; టెక్</h2><div class="grid"><article class="card"><div class="m"><span class="l fact">వాస్తవం</span><span>హైదరాబాద్ · వినియోగదారుల కమిషన్</span><time datetime="2026-11-26T13:03+05:30">26.11.2026 13:35</time></div><h3><a href="/s/f3osz4">ఎయిరిండియా ఎక్స్ప్రెస్కు జరిమానా</a></h3><p>హైదరాబాద్–ఫుకెట్ నేరుగా వెళ్లే విమానం రద్దు చేసి, అనుమతి లేకుండా బెంగళూరు మీదుగా మార్చినందుకు సికింద్రాబాద్ కుటుంబానికి ఎయిర్ ఇండియా ఎక్స్ప్రెస్ ₹70 వేలు చెల్లించాలని హైదరాబాద్ జిల్లా వినియోగదారుల కమిషన్-1 ఆదేశించింది. తిరుగు ప్రయాణంలో కుటుంబం బెంగళూరులో 11 గంటలు ఎదురుచూసింది. సేవలో లోపం ఉందని కమిషన్ తేల్చింది. ఆ కుటుంబం జూలైలో ఫిర్యాదు చేసింది.</p><div class="w"><b>ఇది ఎందుకు ముఖ్యం:</b> విమానం రద్దు, మార్పులతో నష్టపోయే ప్రయాణికులు కమిషన్ను ఆశ్రయించవచ్చని ఇది చూపుతుంది.</div><div class="m">మూలం: <b>NewsMeter</b></div></article><article class="card"><div class="m"><span class="l fact">వాస్తవం</span><span>హైదరాబాద్ · రియల్ ఎస్టేట్</span><time datetime="2026-11-26T12:12+05:30">26.11.2026 12:35</time></div><h3><a href="/s/bz0fsc">తెల్లాపూర్ బిల్డర్కు ₹2 కోట్ల జరిమానా</a></h3><p>నమోదైన అమ్మకపు ఒప్పందం లేకుండానే ఇద్దరు కొనుగోలుదారుల నుంచి ₹1 కోటి ఫ్లాట్కు ₹40 లక్షలు తీసుకున్నందుకు తెల్లాపూర్లోని అలియెన్స్ డెవలపర్స్కు తెలంగాణ రెరా ₹2 కోట్ల జరిమానా వేసింది. ఆదిబట్లలోని ఈఎల్వీ కాస్మోపోలిస్లో లిఫ్టులు, నీరు, కరెంట్ బ్యాకప్ ఏర్పాటు చేయాలని మరో బిల్డర్ను ఆదేశించింది.</p><div class="w"><b>ఇది ఎందుకు ముఖ్యం:</b> హైదరాబాద్ శివార్లలో ఫ్లాట్లు బుక్ చేసుకునే వారికి ఒప్పందం నమోదు ఎంత ముఖ్యమో ఇది చెబుతోంది.</div><div class="m">మూలం: <b>Siasat</b></div></article><article class="card"><div class="m"><span class="l fact">వాస్తవం</span><span>హైదరాబాద్ · వినియోగదారులు</span><time datetime="2026-11-26T12:07+05:30">26.11.2026 12:35</time></div><h3><a href="/s/1xk8pa2">వాడిన ల్యాప్టాప్ పంపిన అమెజాన్కు ఆదేశం</a></h3><p>కొత్త గేమింగ్ ల్యాప్టాప్ అని చెప్పి వాడినది పంపినందుకు అమెజాన్, విక్రేత క్లిక్టెక్ రిటైల్ ₹68,990 ను 9 శాతం వడ్డీతో తిరిగి ఇవ్వాలని హైదరాబాద్ జిల్లా వినియోగదారుల కమిషన్ ఆదేశించింది. పరిహారం ₹5,000, కేసు ఖర్చులు ₹5,000 కూడా చెల్లించాలని చెప్పింది. కొనుగోలుదారు తీసిన వీడియోను సాక్ష్యంగా తీసుకుంది.</p><div class="w"><b>ఇది ఎందుకు ముఖ్యం:</b> ఆన్లైన్లో వస్తువులు కొనే వారు ఫిర్యాదు చేస్తే న్యాయం పొందవచ్చని ఈ తీర్పు చూపుతోంది.</div><div class="m">మూలం: <b>Siasat</b></div></article><article class="card"><div class="m"><span class="l fact">వాస్తవం</span><span>భారత్ · వ్యాపారం</span><time datetime="2026-11-26T11:22+05:30">26.11.2026 11:35</time></div><h3><a href="/s/hea9wr">టాటా సన్స్ చైర్మన్పై కోర్టుకు ట్రస్టులు</a></h3><p>ఎన్. చంద్రశేఖరన్ను రెండోసారి టాటా సన్స్ చైర్మన్గా నియమించడాన్ని సవాలు చేస్తూ బాంబే హైకోర్టులో దావా వేయాలని రెండు టాటా ట్రస్టులు బుధవారం రాత్రి తీర్మానించాయి. సెప్టెంబర్ 17 బోర్డు నిర్ణయానికి నిబంధనల ప్రకారం అవసరమైన ఓటు లేదని అవి వాదిస్తున్నాయి. టాటా సన్స్, ఆరుగురు డైరెక్టర్లపై ఈ దావాలు వేయనున్నాయి.</p><div class="w"><b>ఇది ఎందుకు ముఖ్యం:</b> దేశంలో పెద్ద వ్యాపార సంస్థ అయిన టాటా గ్రూప్ నాయకత్వంపై ఈ వివాదం ప్రభావం చూపవచ్చు.</div><div class="m">మూలం: <b>Telangana Today (PTI)</b></div></article><article class="card"><div class="m"><span class="l fact">వాస్తవం</span><span>తెలంగాణ · పరిశ్రమలు</span><time datetime="2026-11-26T11:07+05:30">26.11.2026 11:35</time></div><h3><a href="/s/1hbsi2c">వర్గల్లో ₹1,500 కోట్ల కాఫీ ఫ్యాక్టరీ</a></h3><p>సిద్దిపేట జిల్లా వర్గల్ ఫుడ్ ప్రాసెసింగ్ జోన్లో వింటేజ్ కాఫీ అండ్ బెవరేజెస్ సంస్థ ₹1,500 కోట్లతో ఇన్స్టంట్ కాఫీ ఫ్యాక్టరీ పెడుతోంది. ఈ పనులకు ఐటీ, పరిశ్రమల మంత్రి శ్రీధర్ బాబు గురువారం పునాది వేశారు. ఈ ఫ్యాక్టరీతో దాదాపు వెయ్యి మందికి ఉద్యోగాలు వస్తాయని సంస్థ చెప్పింది. దక్షిణాసియాలో ఇలాంటి సాంకేతికతతో ఇదే మొదటిది అని తెలిపింది.</p><div class="w"><b>ఇది ఎందుకు ముఖ్యం:</b> సిద్దిపేట జిల్లా యువతకు ఫ్యాక్టరీ ఉద్యోగాలు వచ్చే అవకాశం ఉంది.</div><div class="m">మూలం: <b>The Pioneer</b></div></article><article class="card"><div class="m"><span class="l fact">వాస్తవం</span><span>హైదరాబాద్ · వ్యాపారం</span><time datetime="2026-11-26T10:29+05:30">26.11.2026 10:35</time></div><h3><a href="/s/1efhxun">కూకట్పల్లిలో ఆపిల్ తొలి తెలంగాణ స్టోర్</a></h3><p>హైదరాబాద్ కూకట్పల్లిలోని లేక్షోర్ వై జంక్షన్ మాల్లో ఆపిల్ సంస్థ కొత్త స్టోర్ తెరుస్తోంది. డిసెంబర్ 10 సాయంత్రం 5 గంటలకు వినియోగదారులకు అందుబాటులోకి వస్తుందని సంస్థ గురువారం ప్రకటించింది. ఇది దేశంలో ఆపిల్కు ఏడో స్టోర్, తెలంగాణలో మొదటిది. ముంబై, ఢిల్లీ, బెంగళూరు, పుణెల్లో ఇప్పటికే స్టోర్లు ఉన్నాయి.</p><div class="w"><b>ఇది ఎందుకు ముఖ్యం:</b> హైదరాబాద్ వినియోగదారులు ఆపిల్ ఉత్పత్తులు, సర్వీస్ కోసం ఇక నగరంలోనే సంస్థ సొంత స్టోర్కు వెళ్లవచ్చు.</div><div class="m">మూలం: <b>Telangana Today (IANS)</b></div></article></div></section><section id="fact"><h2>ఫ్యాక్ట్ చెక్</h2><div class="grid"><article class="card"><div class="m"><span class="l misleading">తప్పుదోవ</span><span>ఏపీ · ఫ్యాక్ట్ చెక్</span><time datetime="2026-11-24T07:36+05:30">24.11.2026 08:35</time></div><h3><a href="/s/ttcnbc">కడప ఆంజనేయ ఆలయం కూల్చారన్నది తప్పు</a></h3><p>కడప జిల్లా ఆంజనేయపురంలో రేణిగుంట జాతీయ రహదారి పక్కన ఉన్న ఆంజనేయస్వామి ఆలయాన్ని కూల్చేశారన్న సోషల్ మీడియా ప్రచారం తప్పు అని ఏపీ ఫ్యాక్ట్ చెక్ విభాగం చెప్పింది. రహదారి విస్తరణ కోసం ఆలయాన్ని పక్కనే కొత్త స్థలానికి తరలిస్తున్నారని, పూజల తర్వాత విగ్రహాన్ని అక్కడ ఉంచారని తెలిపింది.</p><div class="w"><b>ఇది ఎందుకు ముఖ్యం:</b> కడప–రేణిగుంట రహదారి వెంట ఉన్న భక్తులు ఆలయం విషయంలో నిజమైన సమాచారం తెలుసుకోవచ్చు.</div><div class="m">మూలం: <b>NewsMeter Telugu</b></div></article></div></section>

diff --git a/s/aa676i.html b/s/aa676i.html
@@ -1,17 +1,17 @@
 <!doctype html><html lang="te"><head><meta charset="utf-8">
 <meta name="viewport" content="width=device-width,initial-scale=1,viewport-fit=cover">
 <title>టంగుటూరులో మహిళల ఆరోగ్య శిబిరం | Swipe2News</title>
-<meta name="robots" content="max-image-preview:large"><meta name="description" content="ప్రభుత్వం మహిళల ఆరోగ్యం కోసం చేపట్టిన హెల్త్ క్యాంపు గురువారం టంగుటూరు గ్రామ పంచాయతీ వద్ద జరిగింది. రిపోర్టుల కోసం అవసరమైన పేపర్లను 5వ వార్డు సభ్యుడు బండి వంశీ కుమార్ వైద్యులకు అందజేశారు. వైద్య సిబ్బం">
+<meta name="robots" content="max-image-preview:large"><meta name="description" content="మహిళల ఆరోగ్య పరిరక్షణ కోసం ప్రభుత్వం చేపట్టిన హెల్త్ క్యాంపు గురువారం టంగుటూరు గ్రామ పంచాయతీ వద్ద జరిగింది. గ్రామంలోని మహిళలు పరీక్షలు చేయించుకున్నారు. రిపోర్టుల కోసం అవసరమైన పేపర్లను 5వ వార్డు సభ్యుడ">
 <meta property="og:type" content="article"><meta property="og:site_name" content="Swipe2News">
 <meta property="og:title" content="టంగుటూరులో మహిళల ఆరోగ్య శిబిరం">
-<meta property="og:description" content="ప్రభుత్వం మహిళల ఆరోగ్యం కోసం చేపట్టిన హెల్త్ క్యాంపు గురువారం టంగుటూరు గ్రామ పంచాయతీ వద్ద జరిగింది. రిపోర్టుల కోసం అవసరమైన పేపర్లను 5వ వార్డు సభ్యుడు బండి వంశీ కుమార్ వైద్యులకు అందజేశారు. వైద్య సిబ్బం">
+<meta property="og:description" content="మహిళల ఆరోగ్య పరిరక్షణ కోసం ప్రభుత్వం చేపట్టిన హెల్త్ క్యాంపు గురువారం టంగుటూరు గ్రామ పంచాయతీ వద్ద జరిగింది. గ్రామంలోని మహిళలు పరీక్షలు చేయించుకున్నారు. రిపోర్టుల కోసం అవసరమైన పేపర్లను 5వ వార్డు సభ్యుడ">
 <link rel="canonical" href="https://swipe2news.com/s/aa676i">
 <meta property="og:url" content="https://swipe2news.com/s/aa676i">
 <meta property="og:image" content="https://swipe2news.com/cards/aa676i.jpg"><meta property="og:image:secure_url" content="https://swipe2news.com/cards/aa676i.jpg"><meta property="og:image:type" content="image/jpeg"><meta property="og:image:width" content="1200"><meta property="og:image:height" content="630"><meta property="og:image" content="https://swipe2news.com/cards/aa676i.jpg">
 <meta name="twitter:card" content="summary_large_image"><meta name="twitter:image" content="https://swipe2news.com/cards/aa676i.jpg">
 <meta name="theme-color" content="#2E0827"><link rel="icon" href="/favicon-48.png"><link rel="manifest" href="/manifest.webmanifest">
 <meta name="google-adsense-account" content="ca-pub-5189488674224327"><script async src="https://www.googletagmanager.com/gtag/js?id=G-2179H3TXWP"></script><script>window.dataLayer=window.dataLayer||[];function gtag(){dataLayer.push(arguments);}gtag('js',new Date());gtag('config','G-2179H3TXWP');</script><script async src="https://pagead2.googlesyndication.com/pagead/js/adsbygoogle.js?client=ca-pub-5189488674224327" crossorigin="anonymous"></script>
-<script type="application/ld+json">{"@context": "https://schema.org", "@type": "NewsArticle", "headline": "టంగుటూరులో మహిళల ఆరోగ్య శిబిరం", "image": ["https://swipe2news.com/cards/aa676i.jpg"], "datePublished": "2026-11-26T16:25:00+05:30", "dateModified": "2026-11-26T16:25:00+05:30", "inLanguage": "te", "author": {"@type": "Organization", "name": "Swipe2News", "url": "https://swipe2news.com"}, "publisher": {"@type": "Organization", "name": "Swipe2News", "logo": {"@type": "ImageObject", "url": "https://swipe2news.com/icon-512.png"}}, "mainEntityOfPage": "https://swipe2news.com/s/aa676i"}</script><script type="application/json" id="w2sTr">{"en": {"h": "Women's health camp in Tanguturu", "p": "A government health camp for women was held at the Tanguturu gram panchayat on Thursday. Ward 5 member Bandi Vamshi Kumar handed the papers needed for reports to the doctors. Medical staff and villagers took part.", "pts": ["Women's health camp at Tanguturu panchayat", "Ward member Bandi Vamshi Kumar gives report papers", "Medical staff and villagers attend"], "why": "Village women get government health checks in their own village.", "cat": "Tanguturu · Health", "stat": "Women's health camp", "statl": "at Tanguturu panchayat", "loc": "Tanguturu gram panchayat"}, "hi": {"h": "टंगुटूरु में महिला स्वास्थ्य शिविर", "p": "महिलाओं के स्वास्थ्य के लिए सरकारी स्वास्थ्य शिविर गुरुवार को टंगुटूरु ग्राम पंचायत में लगा। वार्ड 5 सदस्य बंडी वंशी कुमार ने रिपोर्टों के लिए ज़रूरी कागज़ डॉक्टरों को सौंपे। चिकित्सा कर्मी और ग्रामीण शामिल हुए।", "pts": ["टंगुटूरु पंचायत में महिला स्वास्थ्य शिविर", "वार्ड सदस्य बंडी वंशी कुमार ने दिए रिपोर्ट कागज़", "चिकित्सा कर्मी और ग्रामीण मौजूद"], "why": "गांव की महिलाओं को गांव में ही सरकारी स्वास्थ्य जांच।", "cat": "टंगुटूरु · स्वास्थ्य", "stat": "महिला स्वास्थ्य शिविर", "statl": "टंगुटूरु पंचायत में", "loc": "टंगुटूरु ग्राम पंचायत"}}</script>
+<script type="application/ld+json">{"@context": "https://schema.org", "@type": "NewsArticle", "headline": "టంగుటూరులో మహిళల ఆరోగ్య శిబిరం", "image": ["https://swipe2news.com/cards/aa676i.jpg"], "datePublished": "2026-11-26T16:25:00+05:30", "dateModified": "2026-11-26T16:25:00+05:30", "inLanguage": "te", "author": {"@type": "Organization", "name": "Swipe2News", "url": "https://swipe2news.com"}, "publisher": {"@type": "Organization", "name": "Swipe2News", "logo": {"@type": "ImageObject", "url": "https://swipe2news.com/icon-512.png"}}, "mainEntityOfPage": "https://swipe2news.com/s/aa676i"}</script><script type="application/json" id="w2sTr">{"en": {"h": "Women's health camp in Tanguturu", "p": "A government health camp for women was held at the Tanguturu gram panchayat on Thursday. Ward 5 member Bandi Vamshi Kumar handed the papers needed for reports to the doctors. Medical staff and villagers took part.", "pts": ["Women's health camp at Tanguturu panchayat", "Ward member Bandi Vamshi Kumar gives report papers", "Medical staff and villagers attend"], "why": "Village women get government health checks in their own village.", "cat": "Tanguturu · Health", "stat": "Women", "statl": "health camp", "loc": "Tanguturu gram panchayat"}, "hi": {"h": "टंगुटूरु में महिला स्वास्थ्य शिविर", "p": "महिलाओं के स्वास्थ्य के लिए सरकारी स्वास्थ्य शिविर गुरुवार को टंगुटूरु ग्राम पंचायत में लगा। वार्ड 5 सदस्य बंडी वंशी कुमार ने रिपोर्टों के लिए ज़रूरी कागज़ डॉक्टरों को सौंपे। चिकित्सा कर्मी और ग्रामीण शामिल हुए।", "pts": ["टंगुटूरु पंचायत में महिला स्वास्थ्य शिविर", "वार्ड सदस्य बंडी वंशी कुमार ने दिए रिपोर्ट कागज़", "चिकित्सा कर्मी और ग्रामीण मौजूद"], "why": "गांव की महिलाओं को गांव में ही सरकारी स्वास्थ्य जांच।", "cat": "टंगुटूरु · स्वास्थ्य", "stat": "महिलाओं का", "statl": "स्वास्थ्य शिविर", "loc": "टंगुटूरु ग्राम पंचायत"}}</script>
 <link rel="stylesheet" href="https://fonts.googleapis.com/css2?family=Inter:wght@400;500;600;700&family=Outfit:wght@500;600;700;800&family=Noto+Sans+Telugu:wght@400;600;700;800&display=swap">
 <style>
 @font-face{font-family:'W2S Display';src:url(/tools/fonts/Outfit-ExtraBold.ttf) format('truetype');font-display:swap}
@@ -472,12 +472,12 @@ table.jd th{width:34%;color:var(--muted);font-weight:800;background:var(--soft)}
 <article class="ar" style="--hl:var(--c-gov);--hlink:var(--c-gov)">
   <div class="pnl"><img class="ph" style="object-position:50% 40%" src="/photos/2026-11-26-tanguturu-health-camp.jpg" alt="" loading="lazy" decoding="async"><i class="phs"></i>
     <div class="chips"><span class="chip">టంగుటూరు · ఆరోగ్యం</span></div>
-    <div><div class="stat te">మహిళా ఆరోగ్య శిబిరం</div><div class="statl">టంగుటూరు పంచాయతీ వద్ద</div></div></div>
+    <div><div class="stat te">మహిళలకు</div><div class="statl">ఆరోగ్య శిబిరం</div></div></div>
   <div class="in">
     
     <h1>టంగుటూరులో మహిళల ఆరోగ్య శిబిరం</h1>
     <div class="meta"><span>26.11.2026</span><span class="dot"></span><span>16:25</span><span class="dot"></span><span>Source: Swipe2News రిపోర్టర్</span></div>
-    <p class="alead">ప్రభుత్వం మహిళల ఆరోగ్యం కోసం చేపట్టిన హెల్త్ క్యాంపు గురువారం టంగుటూరు గ్రామ పంచాయతీ వద్ద జరిగింది. రిపోర్టుల కోసం అవసరమైన పేపర్లను 5వ వార్డు సభ్యుడు బండి వంశీ కుమార్ వైద్యులకు అందజేశారు. వైద్య సిబ్బంది, గ్రామస్తులు పాల్గొన్నారు.</p><ul class="pts"><li>టంగుటూరు పంచాయతీ వద్ద మహిళల ఆరోగ్య శిబిరం</li><li>రిపోర్టుల పేపర్లు అందించిన వార్డు సభ్యుడు బండి వంశీ కుమార్</li><li>వైద్య సిబ్బంది, గ్రామస్తులు హాజరు</li></ul><p class="why"><small>ఇది ఎందుకు ముఖ్యం?</small>గ్రామ మహిళలకు ప్రభుత్వ ఆరోగ్య పరీక్షలు ఊర్లోనే అందుతాయి.</p>
+    <p class="alead">మహిళల ఆరోగ్య పరిరక్షణ కోసం ప్రభుత్వం చేపట్టిన హెల్త్ క్యాంపు గురువారం టంగుటూరు గ్రామ పంచాయతీ వద్ద జరిగింది. గ్రామంలోని మహిళలు పరీక్షలు చేయించుకున్నారు. రిపోర్టుల కోసం అవసరమైన పేపర్లను 5వ వార్డు సభ్యుడు బండి వంశీ కుమార్ వైద్యులకు అందజేశారు. మహిళల ఆరోగ్యంపై అవగాహన పెంచడమే లక్ష్యమని ఆయన చెప్పారు. వైద్య సిబ్బంది, గ్రామస్తులు పాల్గొన్నారు.</p><ul class="pts"><li>టంగుటూరు పంచాయతీ వద్ద మహిళల ఆరోగ్య శిబిరం</li><li>రిపోర్టుల పేపర్లు అందించిన వార్డు సభ్యుడు బండి వంశీ కుమార్</li><li>వైద్య సిబ్బంది, గ్రామస్తులు హాజరు</li></ul><p class="why"><small>ఇది ఎందుకు ముఖ్యం?</small>గ్రామ మహిళలకు ప్రభుత్వ ఆరోగ్య పరీక్షలు ఊర్లోనే అందుతాయి.</p>
     <p class="src">మూలం: Swipe2News రిపోర్టర్</p><p class="byl">✍ Swipe2News రిపోర్టర్ · Swipe2News రిపోర్టర్ · టంగుటూరు గ్రామ పంచాయతీ · ఎడిటర్ ఆమోదించిన స్థానిక వార్త · <a href="/editorial-policy.html">మేము వార్తలు ఎలా సిద్ధం చేస్తాం</a> · <a href="/contact.html">తప్పు కనిపించిందా? తెలియజేయండి</a></p><section class="entr" lang="en"><h2>In English</h2><h3>Women&#x27;s health camp in Tanguturu</h3><p>A government health camp for women was held at the Tanguturu gram panchayat on Thursday. Ward 5 member Bandi Vamshi Kumar handed the papers needed for reports to the doctors. Medical staff and villagers took part.</p><ul><li>Women&#x27;s health camp at Tanguturu panchayat</li><li>Ward member Bandi Vamshi Kumar gives report papers</li><li>Medical staff and villagers attend</li></ul><p><b>Why it matters:</b> Village women get government health checks in their own village.</p></section>
     <div class="acts">
       <a class="cta wa" href="https://wa.me/?text=%E0%B0%9F%E0%B0%82%E0%B0%97%E0%B1%81%E0%B0%9F%E0%B1%82%E0%B0%B0%E0%B1%81%E0%B0%B2%E0%B1%8B%20%E0%B0%AE%E0%B0%B9%E0%B0%BF%E0%B0%B3%E0%B0%B2%20%E0%B0%86%E0%B0%B0%E0%B1%8B%E0%B0%97%E0%B1%8D%E0%B0%AF%20%E0%B0%B6%E0%B0%BF%E0%B0%AC%E0%B0%BF%E0%B0%B0%E0%B0%82%0Ahttps%3A//swipe2news.com/s/aa676i" target="_blank" rel="noopener">WhatsAppలో షేర్ చేయండి</a>
